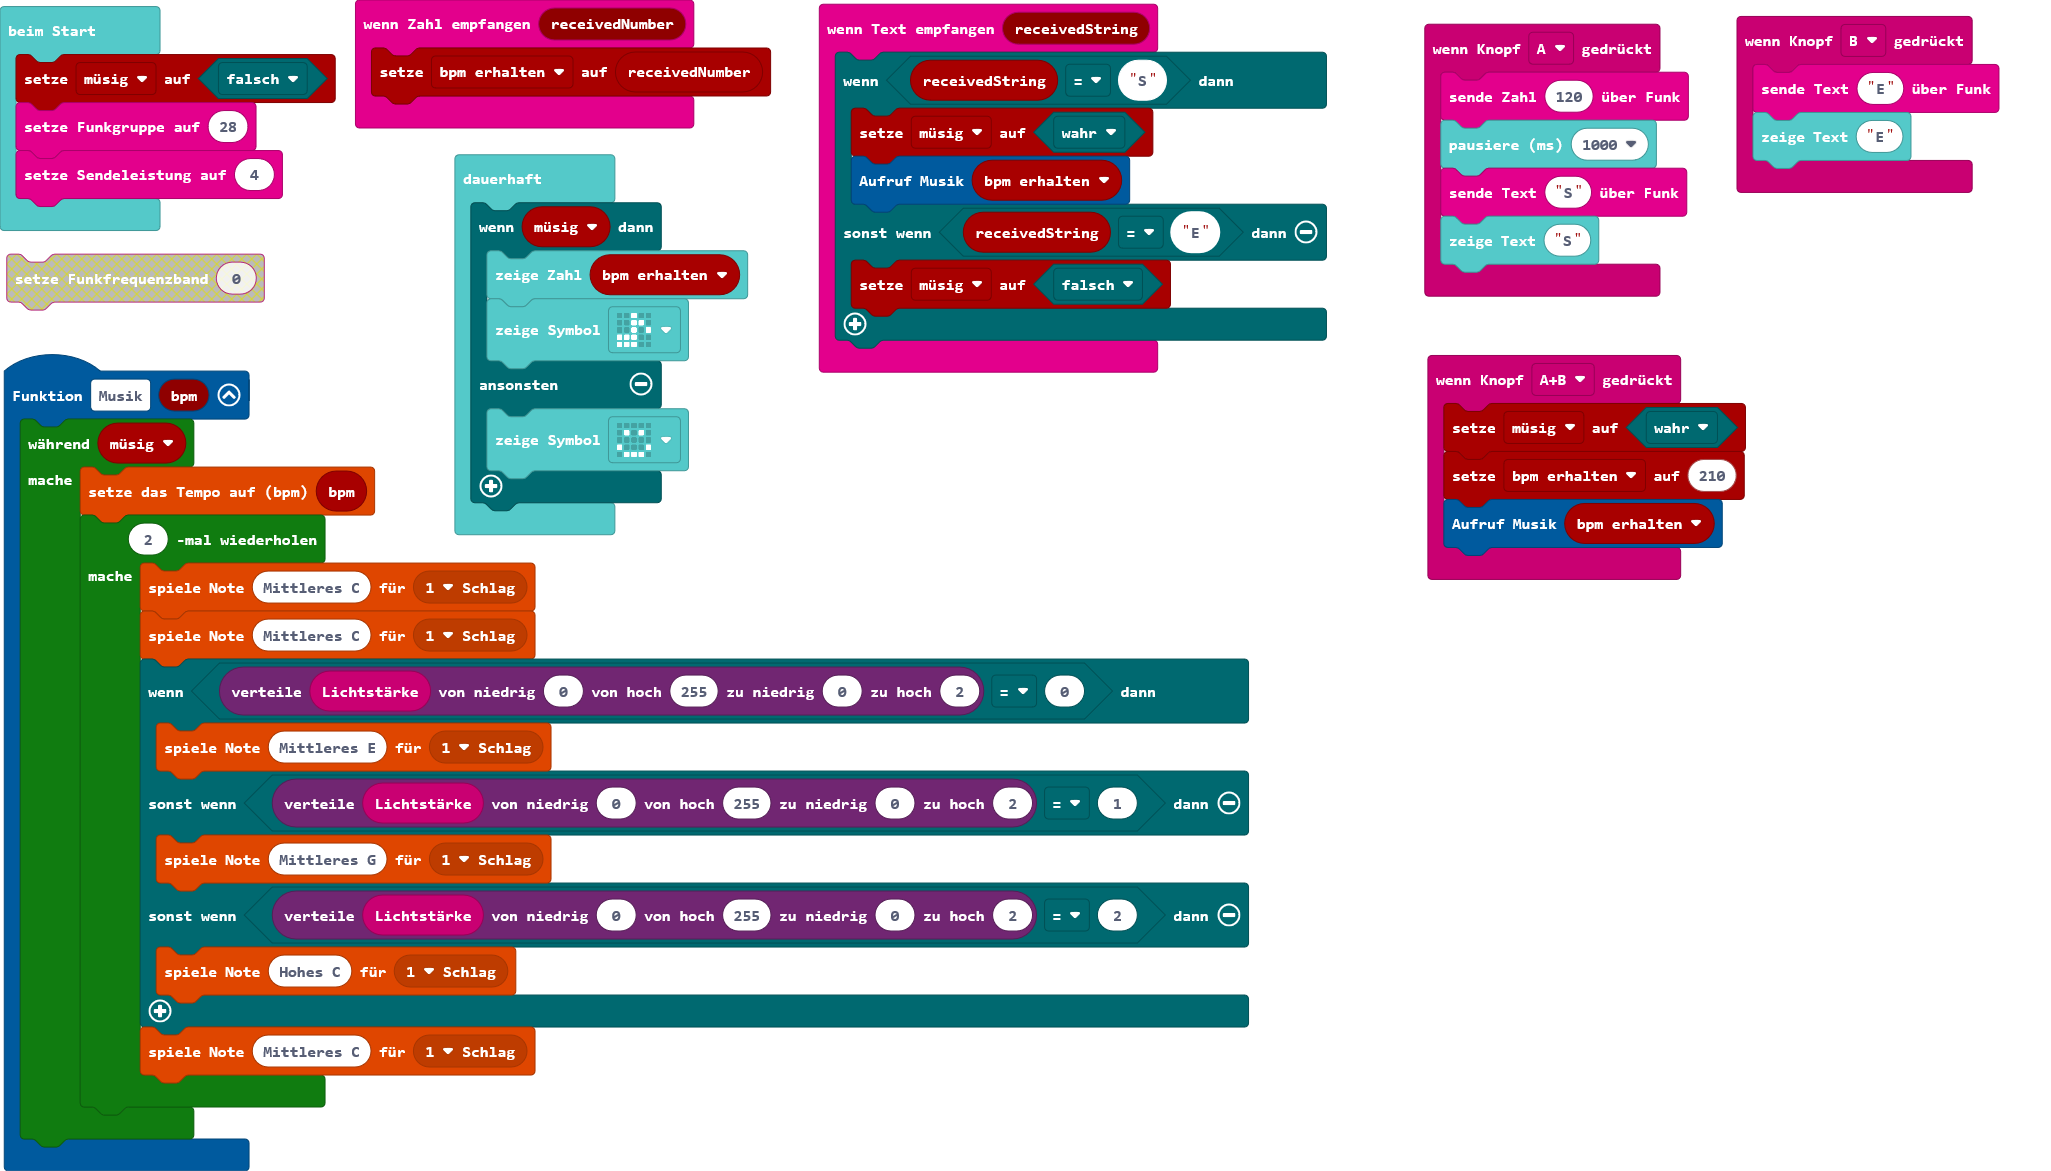
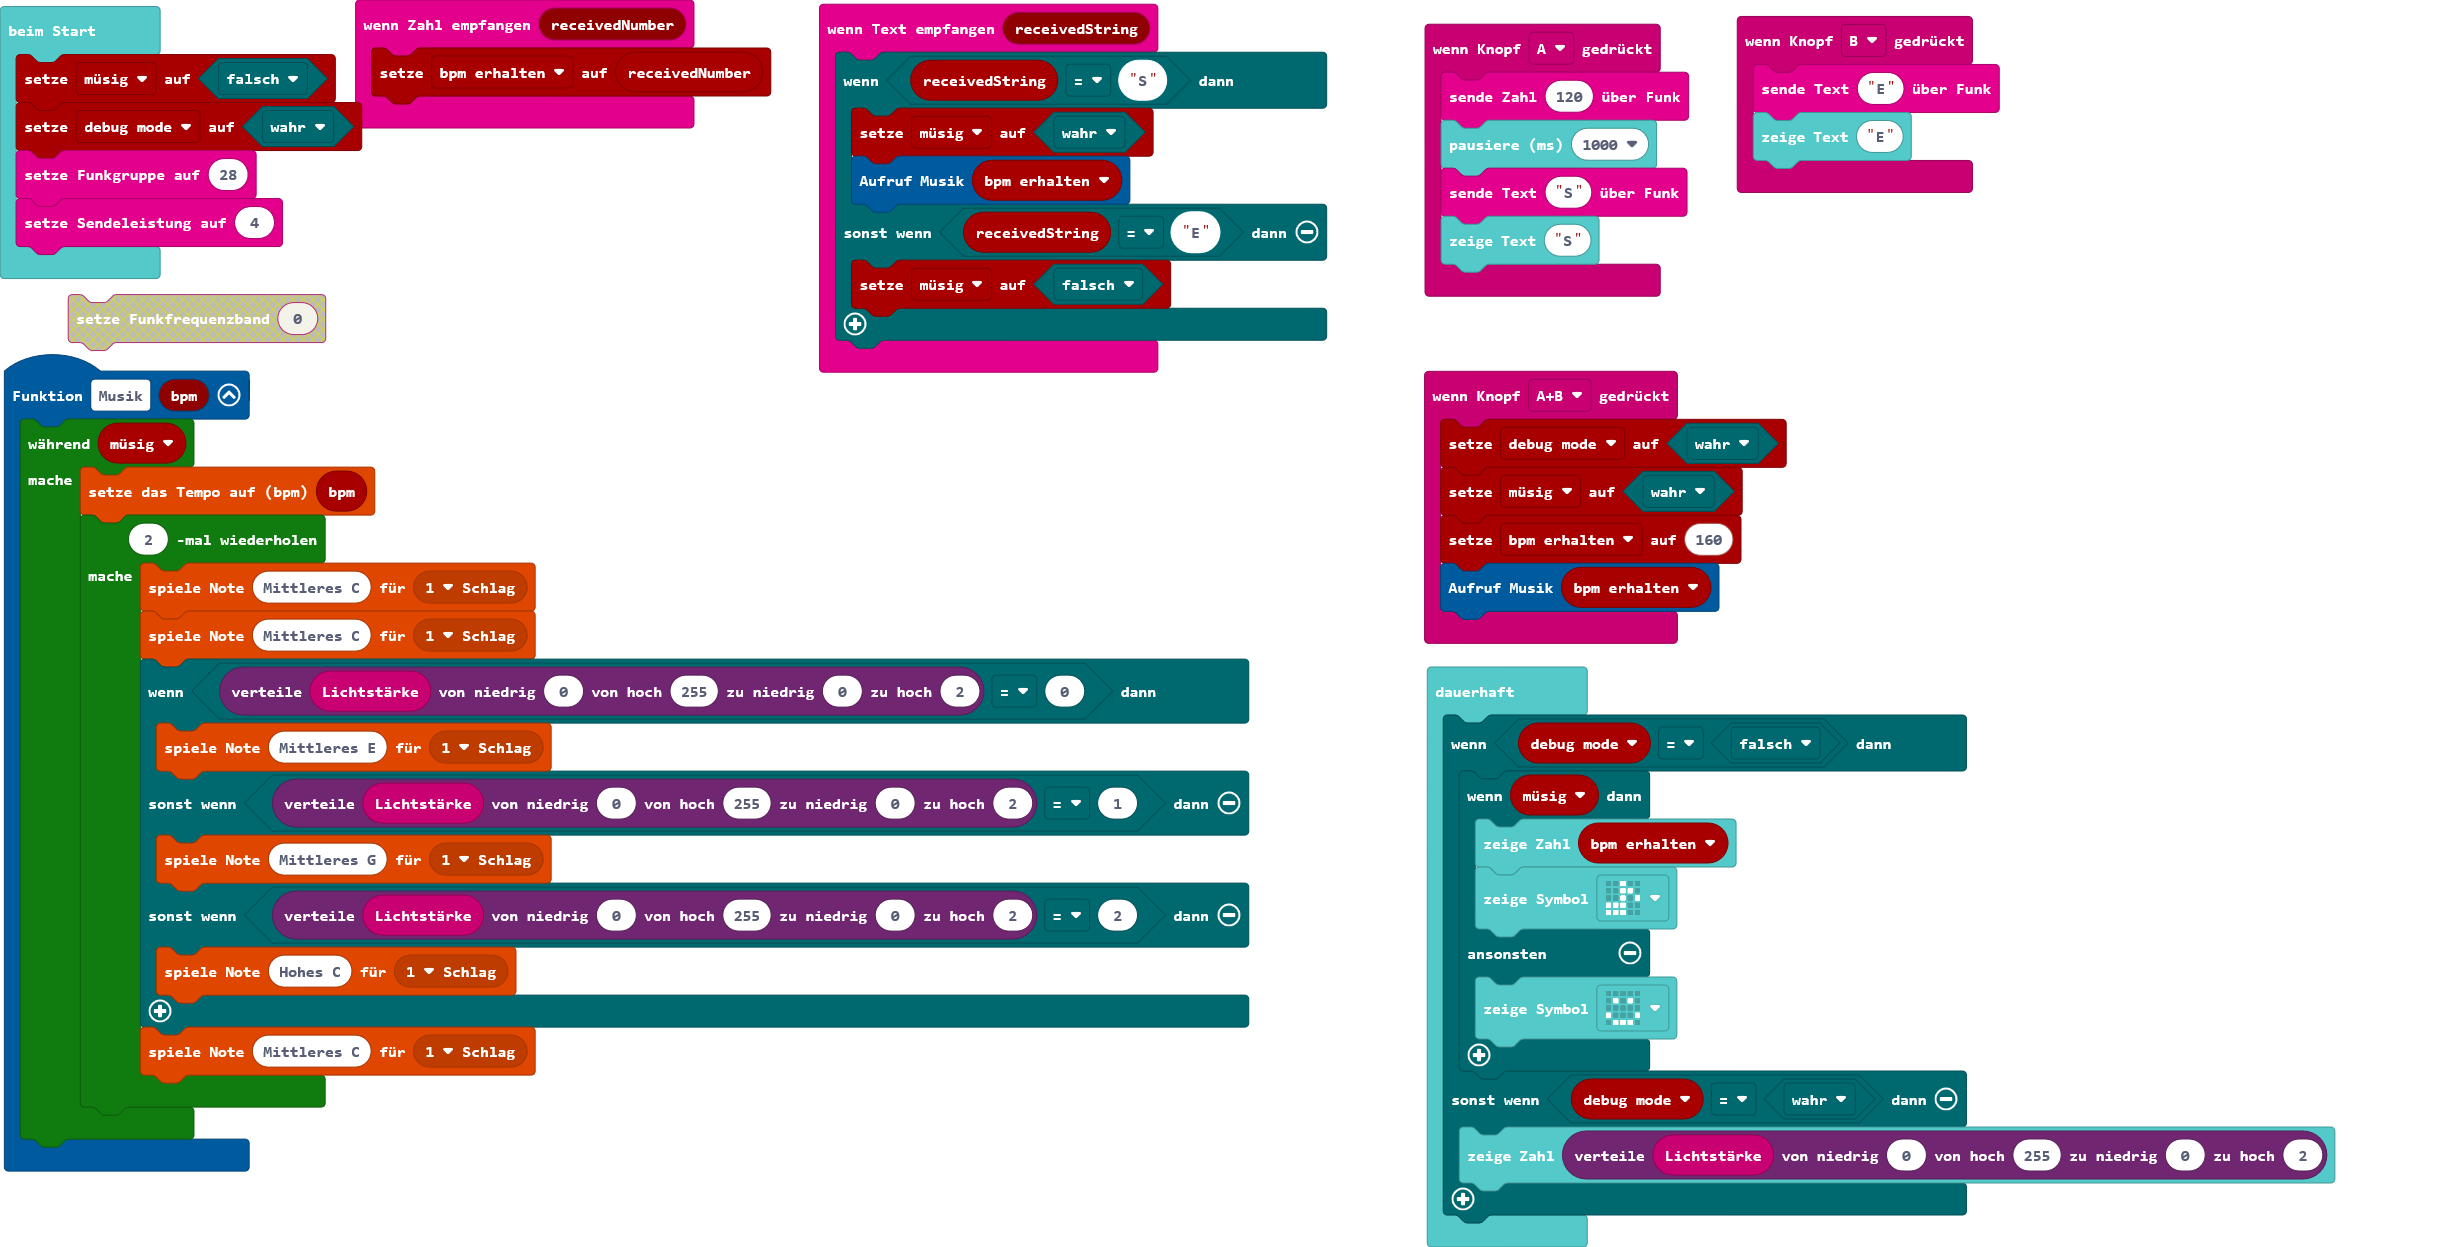
Aktualisiere main.blocks, main.ts

diff --git a/main.ts b/main.ts
@@ -25,8 +25,9 @@ input.onButtonPressed(Button.A, function () {
     basic.showString("S")
 })
 input.onButtonPressed(Button.AB, function () {
+    debug_mode = true
     müsig = true
-    bpm_erhalten = 210
+    bpm_erhalten = 160
     Musik(bpm_erhalten)
 })
 radio.onReceivedString(function (receivedString) {
@@ -42,15 +43,21 @@ input.onButtonPressed(Button.B, function () {
     basic.showString("E")
 })
 let bpm_erhalten = 0
+let debug_mode = false
 let müsig = false
 müsig = false
+debug_mode = true
 radio.setGroup(28)
 radio.setTransmitPower(4)
 basic.forever(function () {
-    if (müsig) {
-        basic.showNumber(bpm_erhalten)
-        basic.showIcon(IconNames.EigthNote)
-    } else {
-        basic.showIcon(IconNames.Happy)
+    if (debug_mode == false) {
+        if (müsig) {
+            basic.showNumber(bpm_erhalten)
+            basic.showIcon(IconNames.EigthNote)
+        } else {
+            basic.showIcon(IconNames.Happy)
+        }
+    } else if (debug_mode == true) {
+        basic.showNumber(Math.map(input.lightLevel(), 0, 255, 0, 2))
     }
 })
